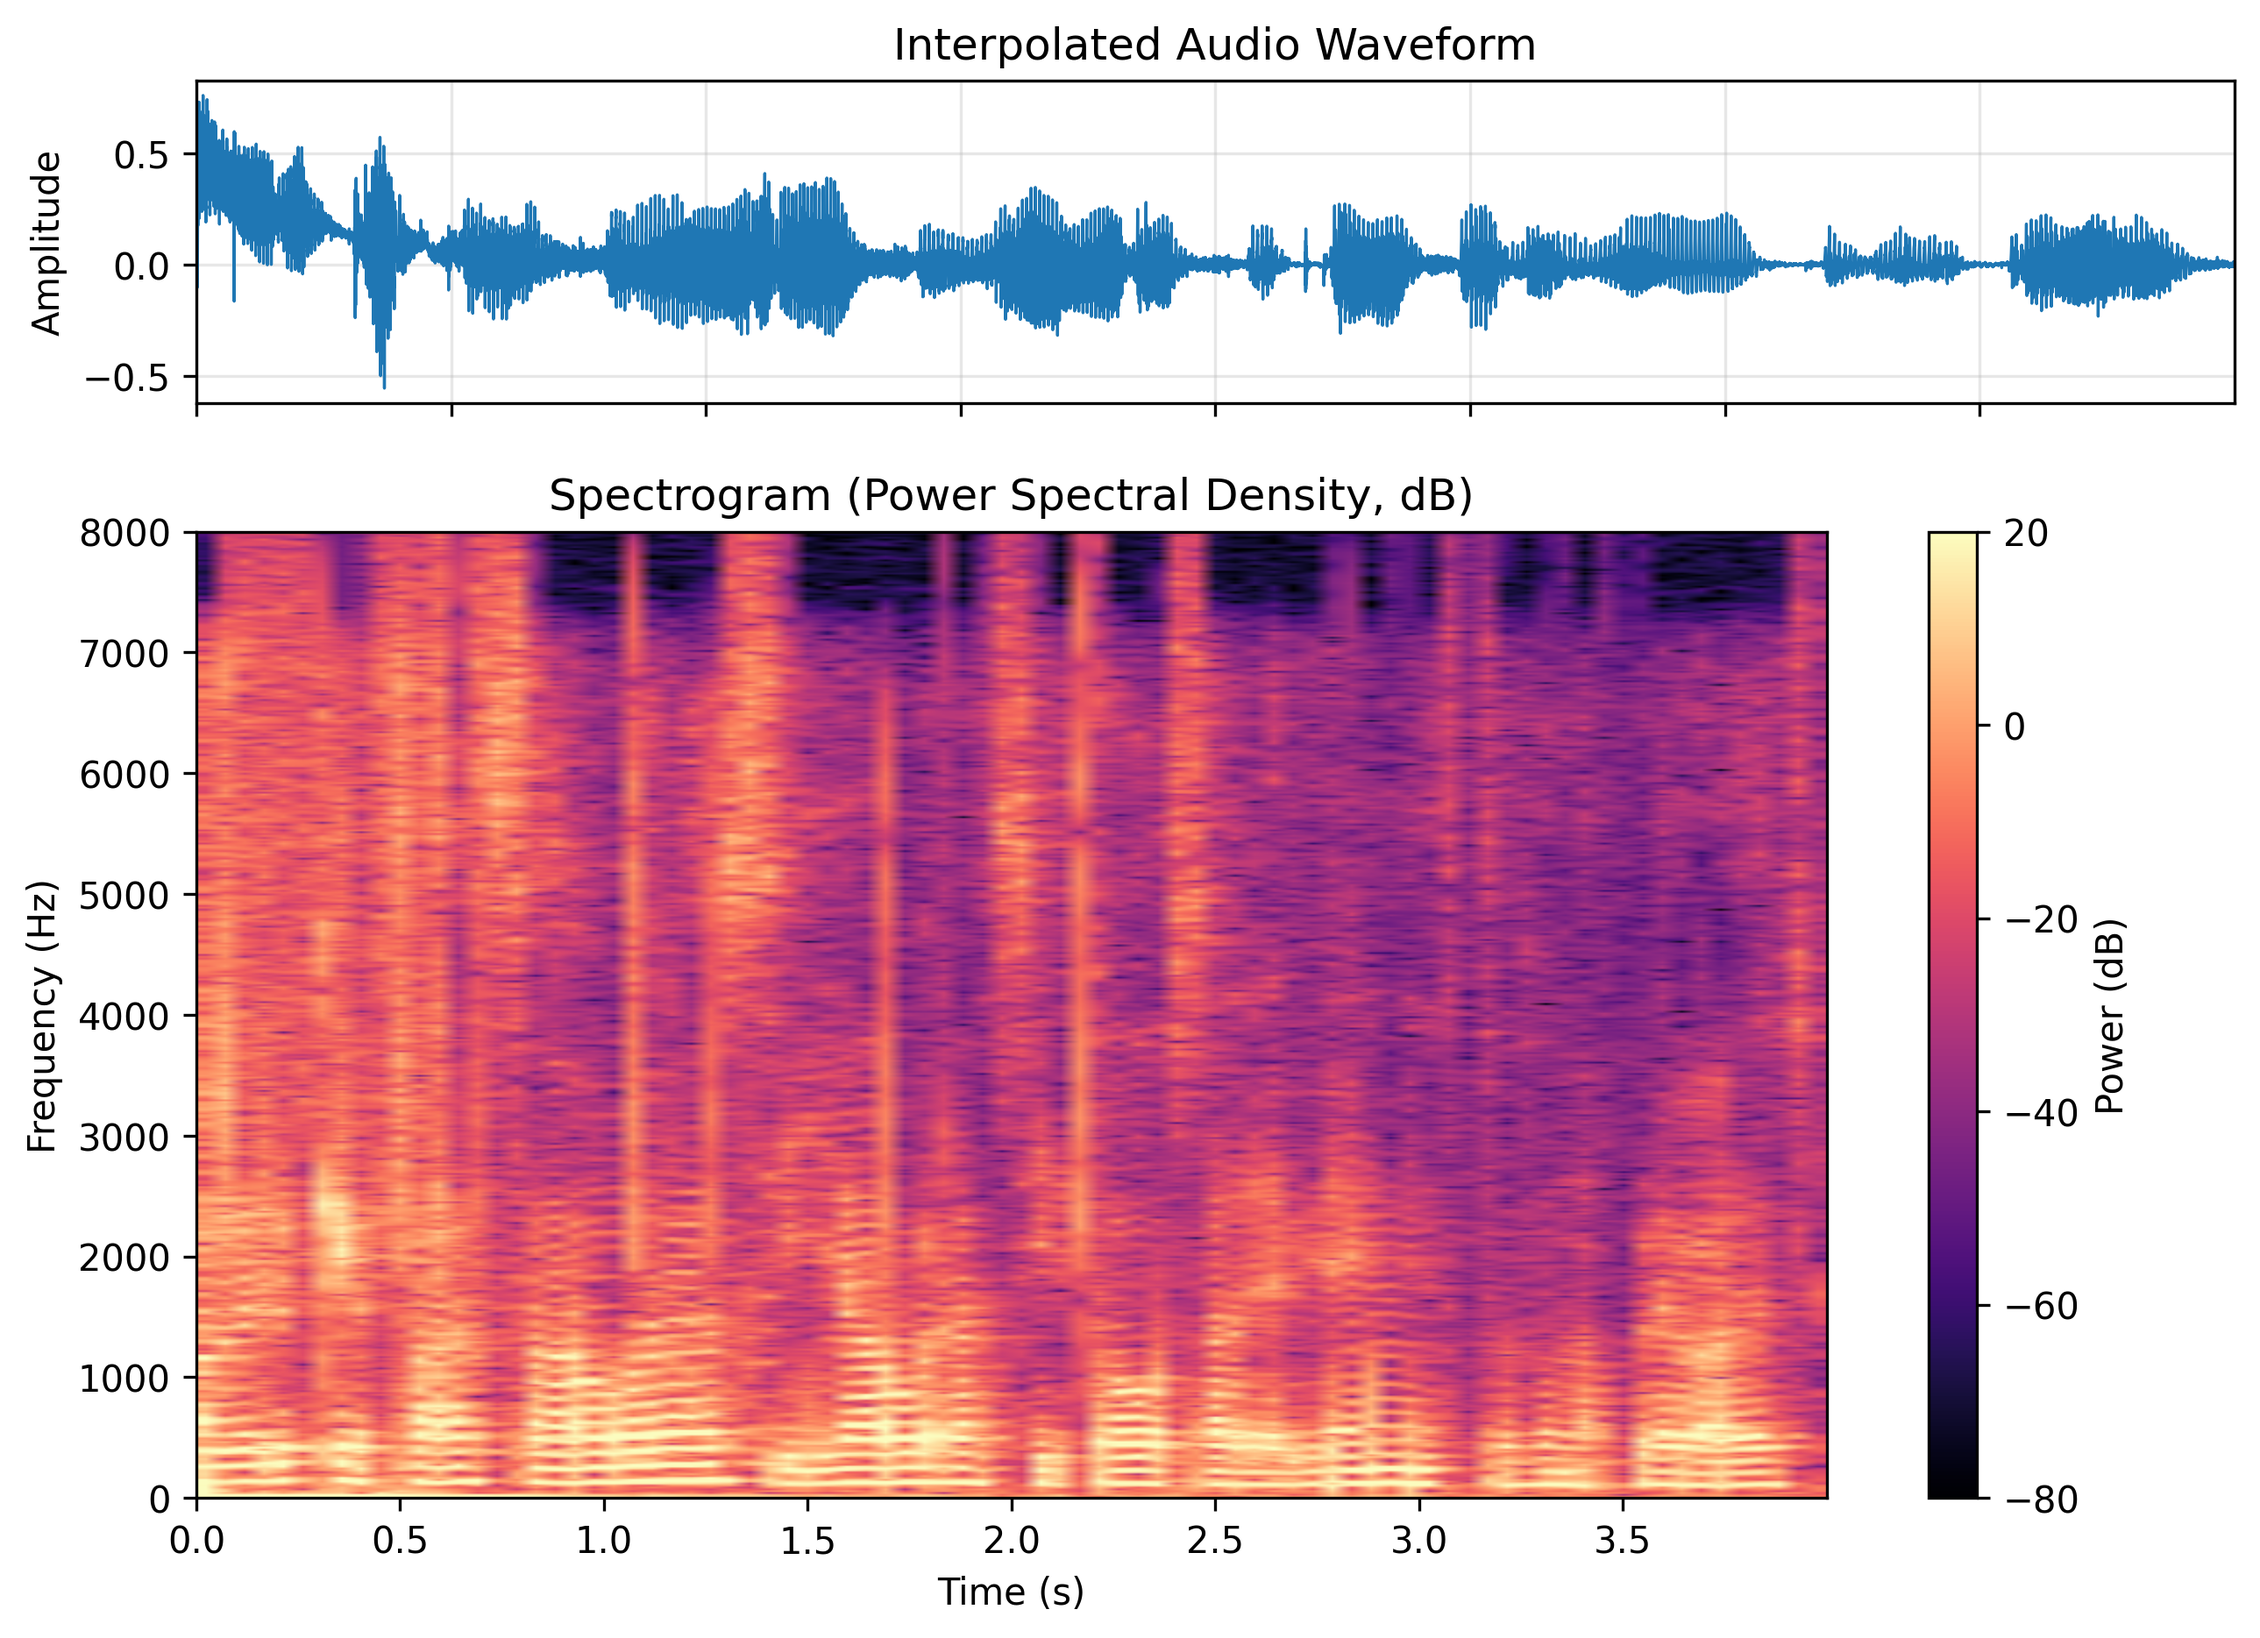
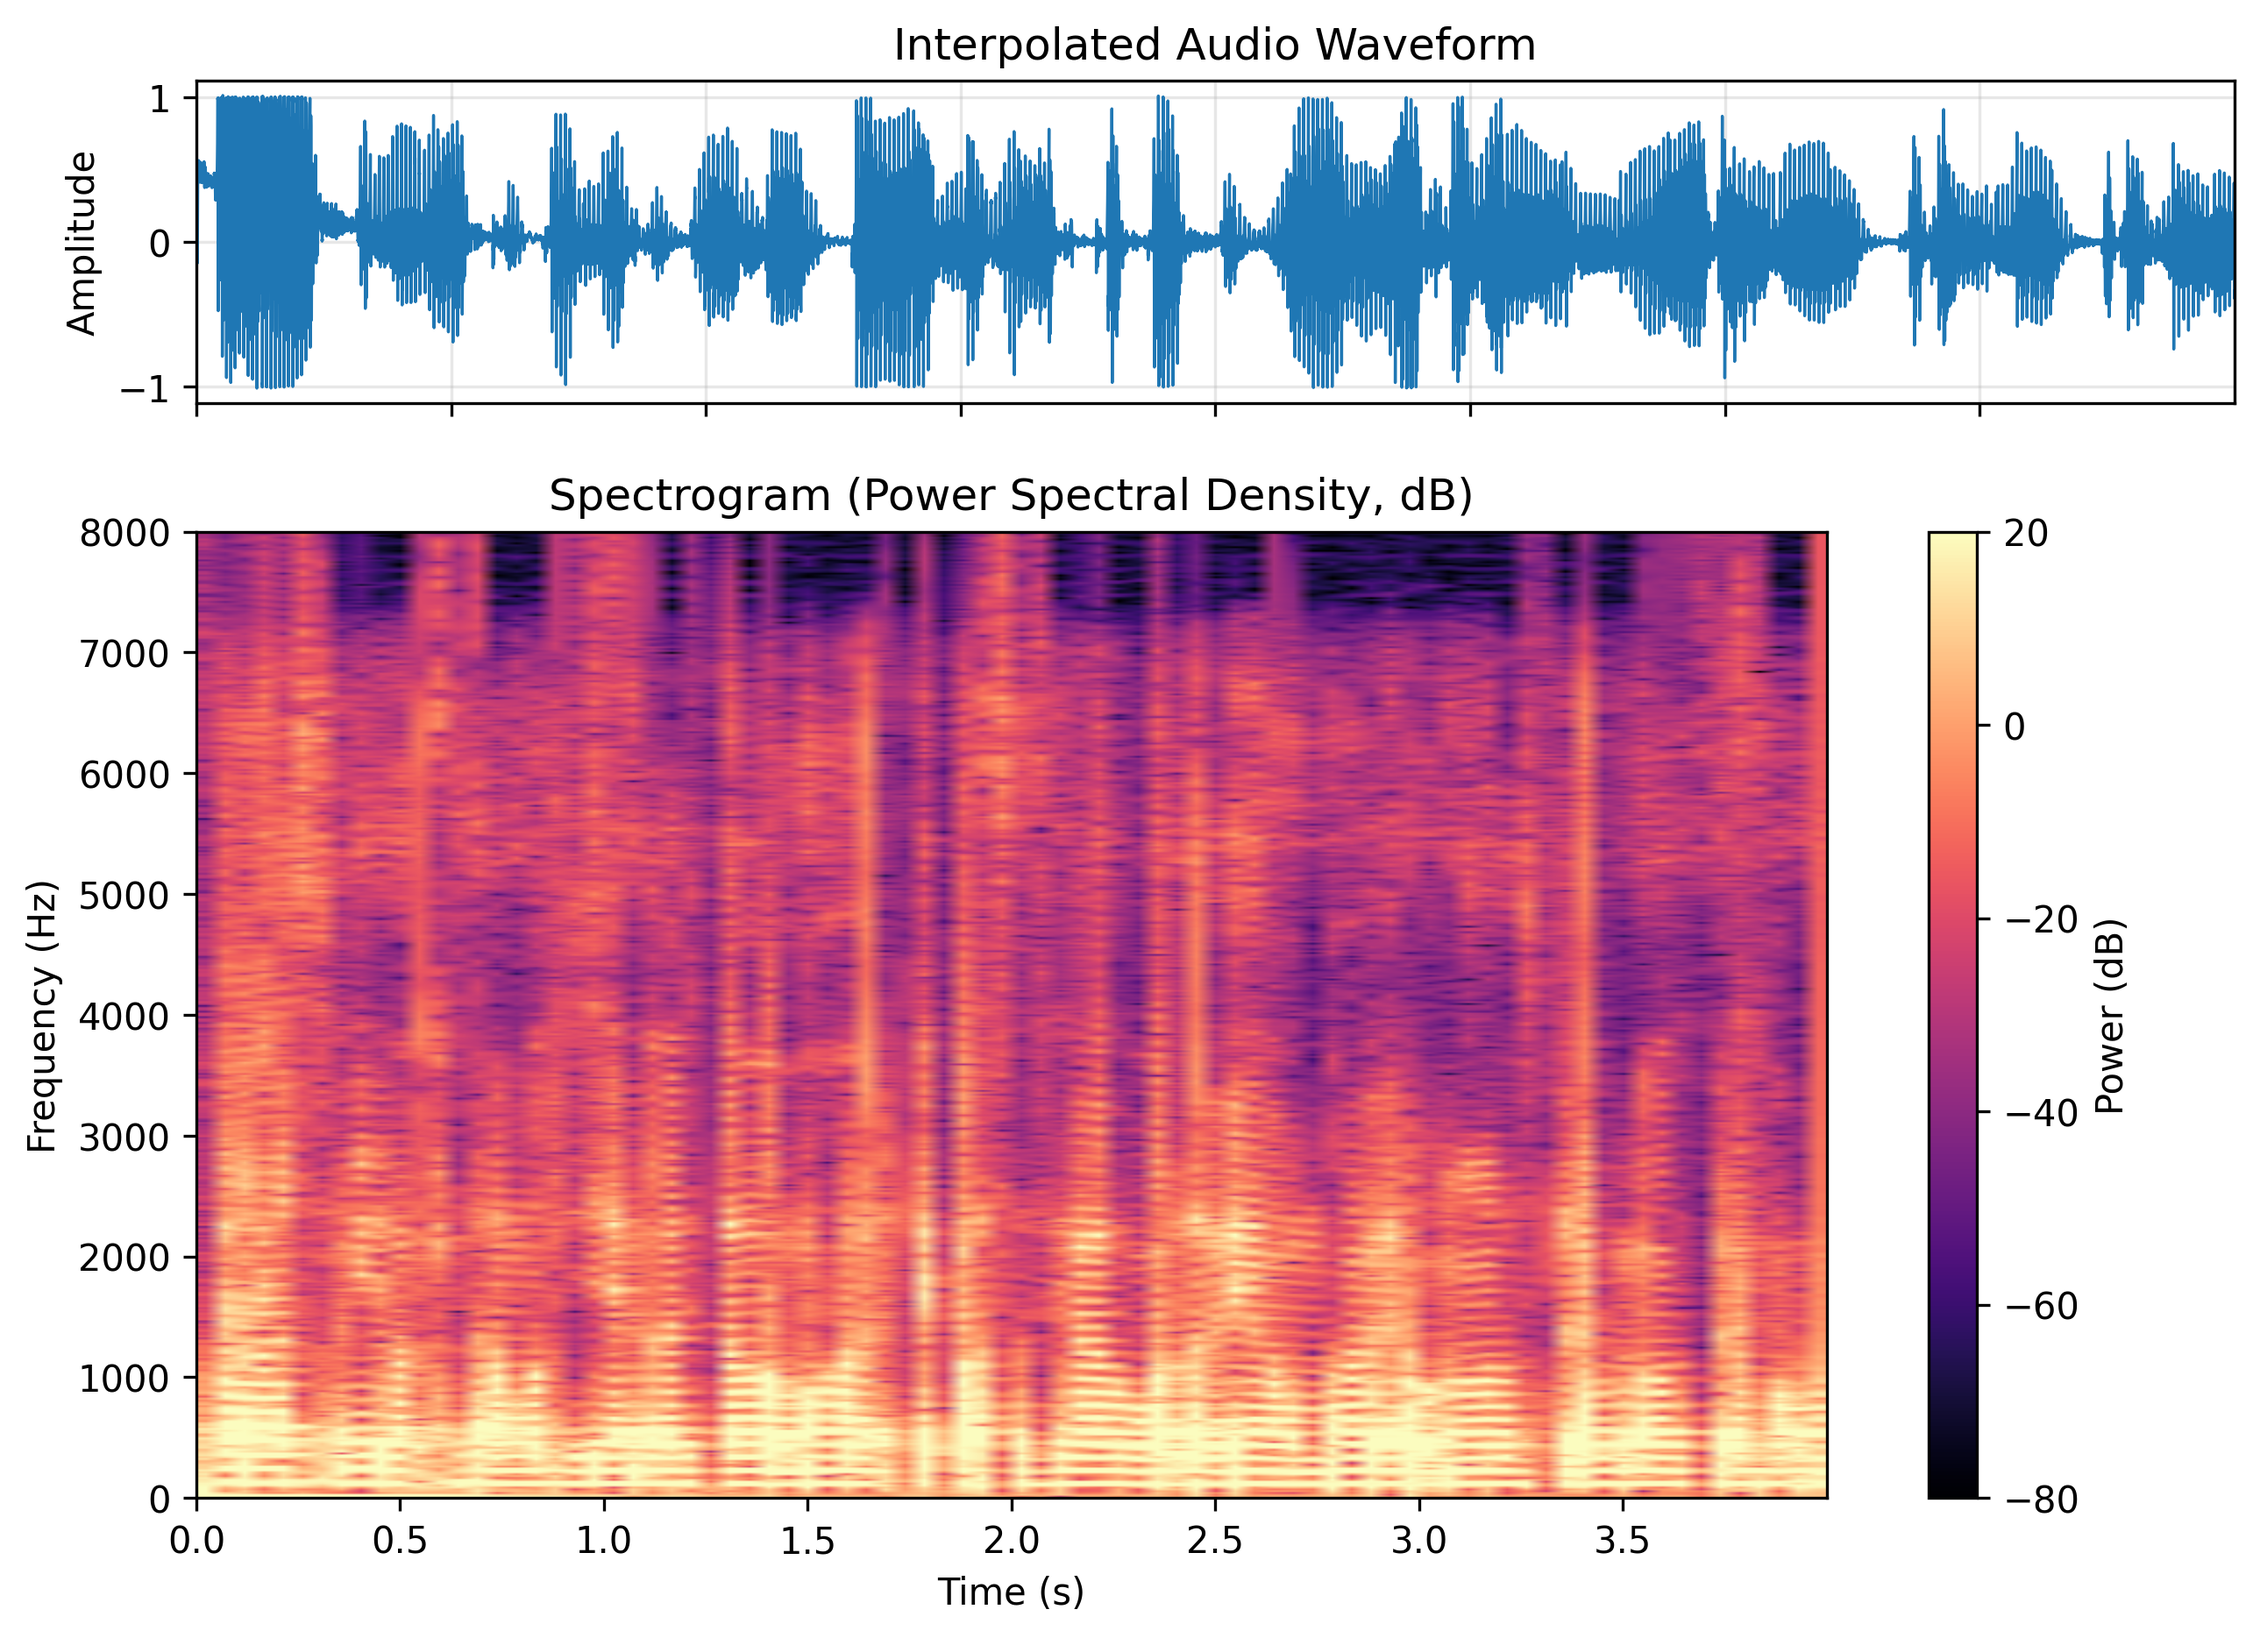
lab5 complete

diff --git a/4293 Python26/Daniel's Labs/lab5/src/spectrogram.py b/4293 Python26/Daniel's Labs/lab5/src/spectrogram.py
@@ -4,11 +4,15 @@ from windowing import hann, my_fft, natural_cubic_spline
 import sounddevice as sd          # most popular simple choice
 import time
 
+
+
+# I used Grok to explain me how to use the sound device libray and how to implement a time delay
+
 def record_audio(duration, fs, channels=1):
     print("\nGet ready to record a 4-second audio clip.")
     for i in range(10, 0, -1):
         print(f"Recording starts in {i}...", end="\r")
-        time.sleep(1)
+        time.sleep(1) # time delay
     print("\n>>> SPEAK NOW! <<<")
     recording = sd.rec(int(duration * fs), samplerate=fs, channels=channels, dtype='float32')
     sd.wait()  # wait until recording is finished

diff --git a/4293 Python26/Daniel's Labs/lab5/src/windowing.py b/4293 Python26/Daniel's Labs/lab5/src/windowing.py
@@ -36,6 +36,8 @@ def hann(x, window_length=1024, overlap=256, zero_pad=True):
         
         yield W * segment
 
+# I used Youtube and Grok to have a better understanding on FFT and how to implement Cooley-Tukey algorithm
+
 def my_fft(x):
     """
     Recursive radix-2 Cooley-Tukey FFT.
@@ -61,6 +63,8 @@ def my_fft(x):
         even - factor * odd
     ])
     
+# I used Grok to have a better understanding cubic spline interpolation and natural made sense to me
+
 def natural_cubic_spline(x, y, xnew):
     """
     Natural cubic spline interpolation.
